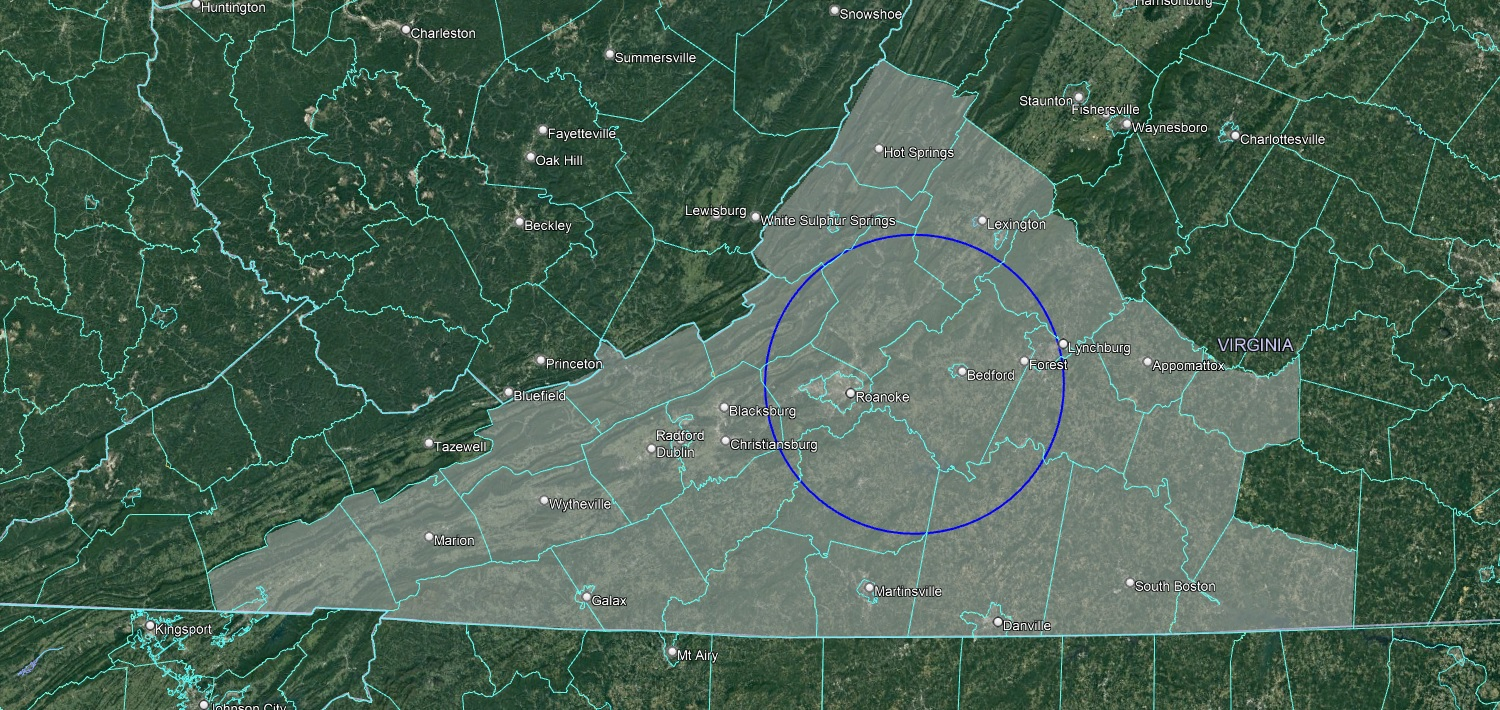
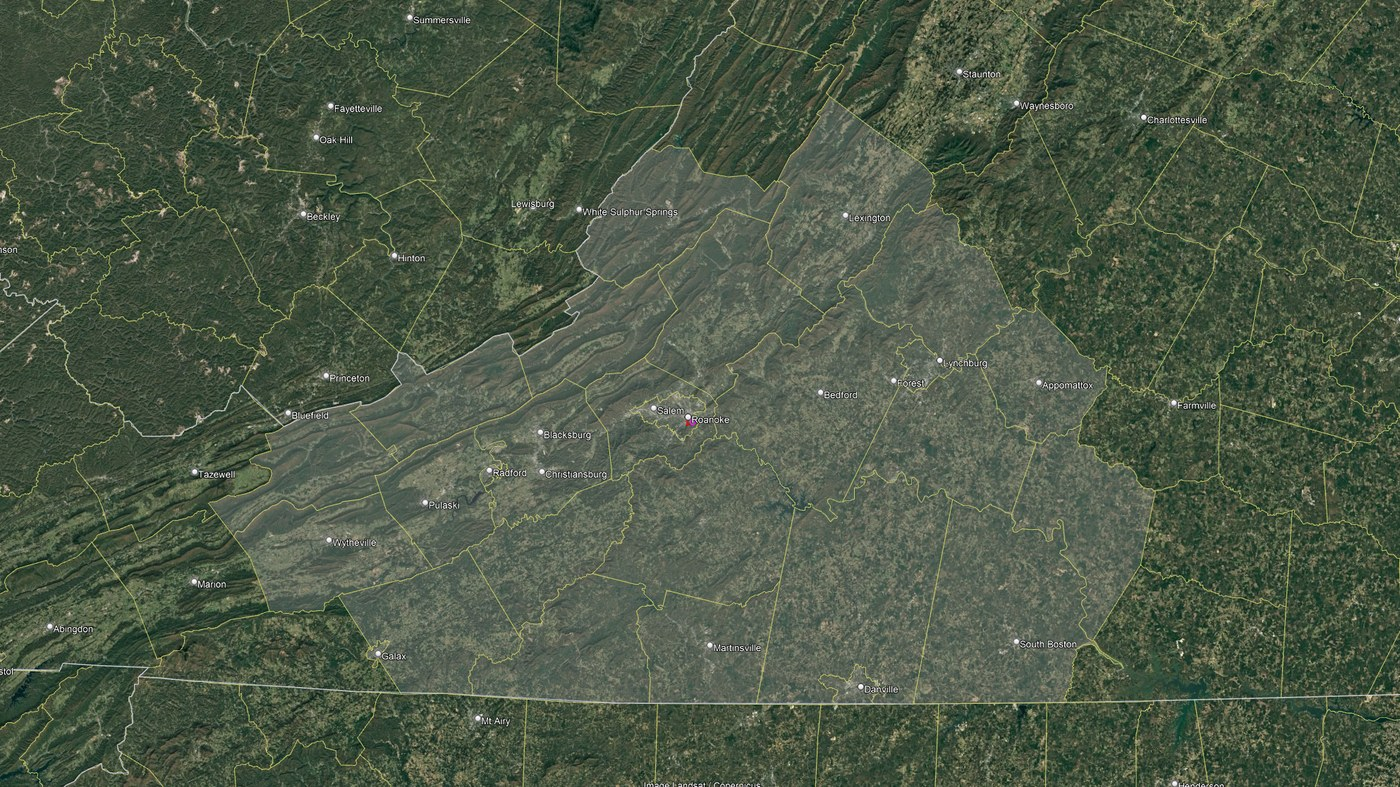
2026 Update Image Optimization
-PNG files made webpage load slow
-Converted file types PNG => JPG 
-Files size changed from 20.3MB to 2.0MB
-Implemented lazy loading

diff --git a/services.html b/services.html
@@ -77,7 +77,7 @@
                             </h2>
                         </div>
                     </div>
-                    <img class="product-item-img mx-auto d-flex rounded img-fluid mb-3 mb-lg-0" src="assets/img/products-01.jpg" alt="Soil Profile Trench">
+                    <img class="product-item-img mx-auto d-flex rounded img-fluid mb-3 mb-lg-0" src="assets/img/products-01.jpg" width="640" height="425" loading="lazy" decoding="async" alt="Soil Profile Trench">
                     <div class="product-item-description d-flex me-auto">
                         <div class="bg-faded p-5 rounded"><p class="mb-0">&emsp;&emsp; We consider the site & soil conditions of your property carefully to guarantee that our design will be the best solution to fit your septic and water supply needs. Whether you are planning to build a single family residence, a commercial building, or you want to know what type of system the property will require before you buy -- we are here to provide the answers you need.</p></div>
                     </div>
@@ -95,7 +95,7 @@
                             </h2>
                         </div>
                     </div>
-                    <img class="product-item-img mx-auto d-flex rounded img-fluid mb-3 mb-lg-0" src="assets/img/products-02.jpg" alt="Mini Excavator Working on Septic System Construction">
+                    <img class="product-item-img mx-auto d-flex rounded img-fluid mb-3 mb-lg-0" src="assets/img/products-02.jpg" width="640" height="360" loading="lazy" decoding="async" alt="Mini Excavator Working on Septic System Construction">
                     <div class="product-item-description d-flex ms-auto">
                         <div class="bg-faded p-5 rounded"><p class="mb-0">&emsp;&emsp;Construction of a septic system and/or water well requires a valid permit issued by the Virginia Department of Health. Our experienced team has handled the creation of hundreds of septic and well permits ranging from single-family homes to commercial operations. We have the know-how to get your project from the preliminary planning phase, through the regulatory process, to the final inspection.</p></div>
                     </div>
@@ -113,7 +113,7 @@
                             </h2>
                         </div>
                     </div>
-                    <img class="product-item-img mx-auto d-flex rounded img-fluid mb-3 mb-lg-0" src="assets/img/products-03.jpg" alt="Surveyor Shooting Grade with a Transit">
+                    <img class="product-item-img mx-auto d-flex rounded img-fluid mb-3 mb-lg-0" src="assets/img/products-03.jpg" width="640" height="480" loading="lazy" decoding="async" alt="Surveyor Shooting Grade with a Transit">
                     <div class="product-item-description d-flex me-auto">
                         <div class="bg-faded p-5 rounded"><p class="mb-0">&emsp;&emsp;Local zoning offices often require a soils report when someone divides a piece of property. This report details what type of well and septic system the new parcel(s) will require. If you are working on a small project like a family subdivision, or a much bigger project like a major subdivision, we have worked closely with many surveyors to get the job done.  </p></div>
                     </div>
@@ -131,7 +131,7 @@
                             </h2>
                         </div>
                     </div>
-                    <img class="product-item-img mx-auto d-flex rounded img-fluid mb-3 mb-lg-0" src="assets/img/products-04.jpg" alt="Septic Tank Manhole Cover">
+                    <img class="product-item-img mx-auto d-flex rounded img-fluid mb-3 mb-lg-0" src="assets/img/products-04.jpg" width="640" height="427" loading="lazy" decoding="async" alt="Septic Tank Manhole Cover">
                     <div class="product-item-description d-flex ms-auto">
                         <div class="bg-faded p-5 rounded"><p class="mb-0">&emsp;&emsp;Septic systems are designed to last a long time.  During the operational life of a septic system it may become necessary to replace the home or structure that the septic system serves.  Our SAP inspection examines every portion of the septic system to make sure that it is in compliance and can be expected to function properly.</p></div>
                     </div>

diff --git a/index.html b/index.html
@@ -162,7 +162,7 @@
         <section class="page-section clearfix" id="main-content-1" aria-label="Description of the business and its goals">
             <div class="container">
                 <div class="intro">
-                    <img class="intro-img img-fluid mb-3 mb-lg-0 rounded" src="assets/img/intro.jpg" alt="Blue Ridge Mountains">
+                    <img class="intro-img img-fluid mb-3 mb-lg-0 rounded" src="assets/img/intro.jpg" width="1920" height="1018" decoding="async" alt="Blue Ridge Mountains">
                     <div class="intro-text left-0 text-center bg-faded p-5 rounded">
                         <h2 class="section-heading mb-4">
                             <span class="section-heading-upper">Authorized Onsite Soil Evaluators for</span>

diff --git a/about.html b/about.html
@@ -65,7 +65,7 @@
         </nav>
         <section class="page-section about-heading" id="main-content-1" aria-label="Description of the business and areas we service.">
             <div class="container">
-                <img class="img-fluid rounded about-heading-img mb-3 mb-lg-0" src="assets/img/about.PNG" alt="Primary Service Area Map for Soil Consulting Services">
+                <img class="img-fluid rounded about-heading-img mb-3 mb-lg-0" src="assets/img/about.jpg" width="1400" height="788" decoding="async" alt="Primary Service Area Map for Soil Consulting Services">
                 <div class="about-heading-content">
                     <div class="row">
                         <div class="col-xl-9 col-lg-10 mx-auto">
